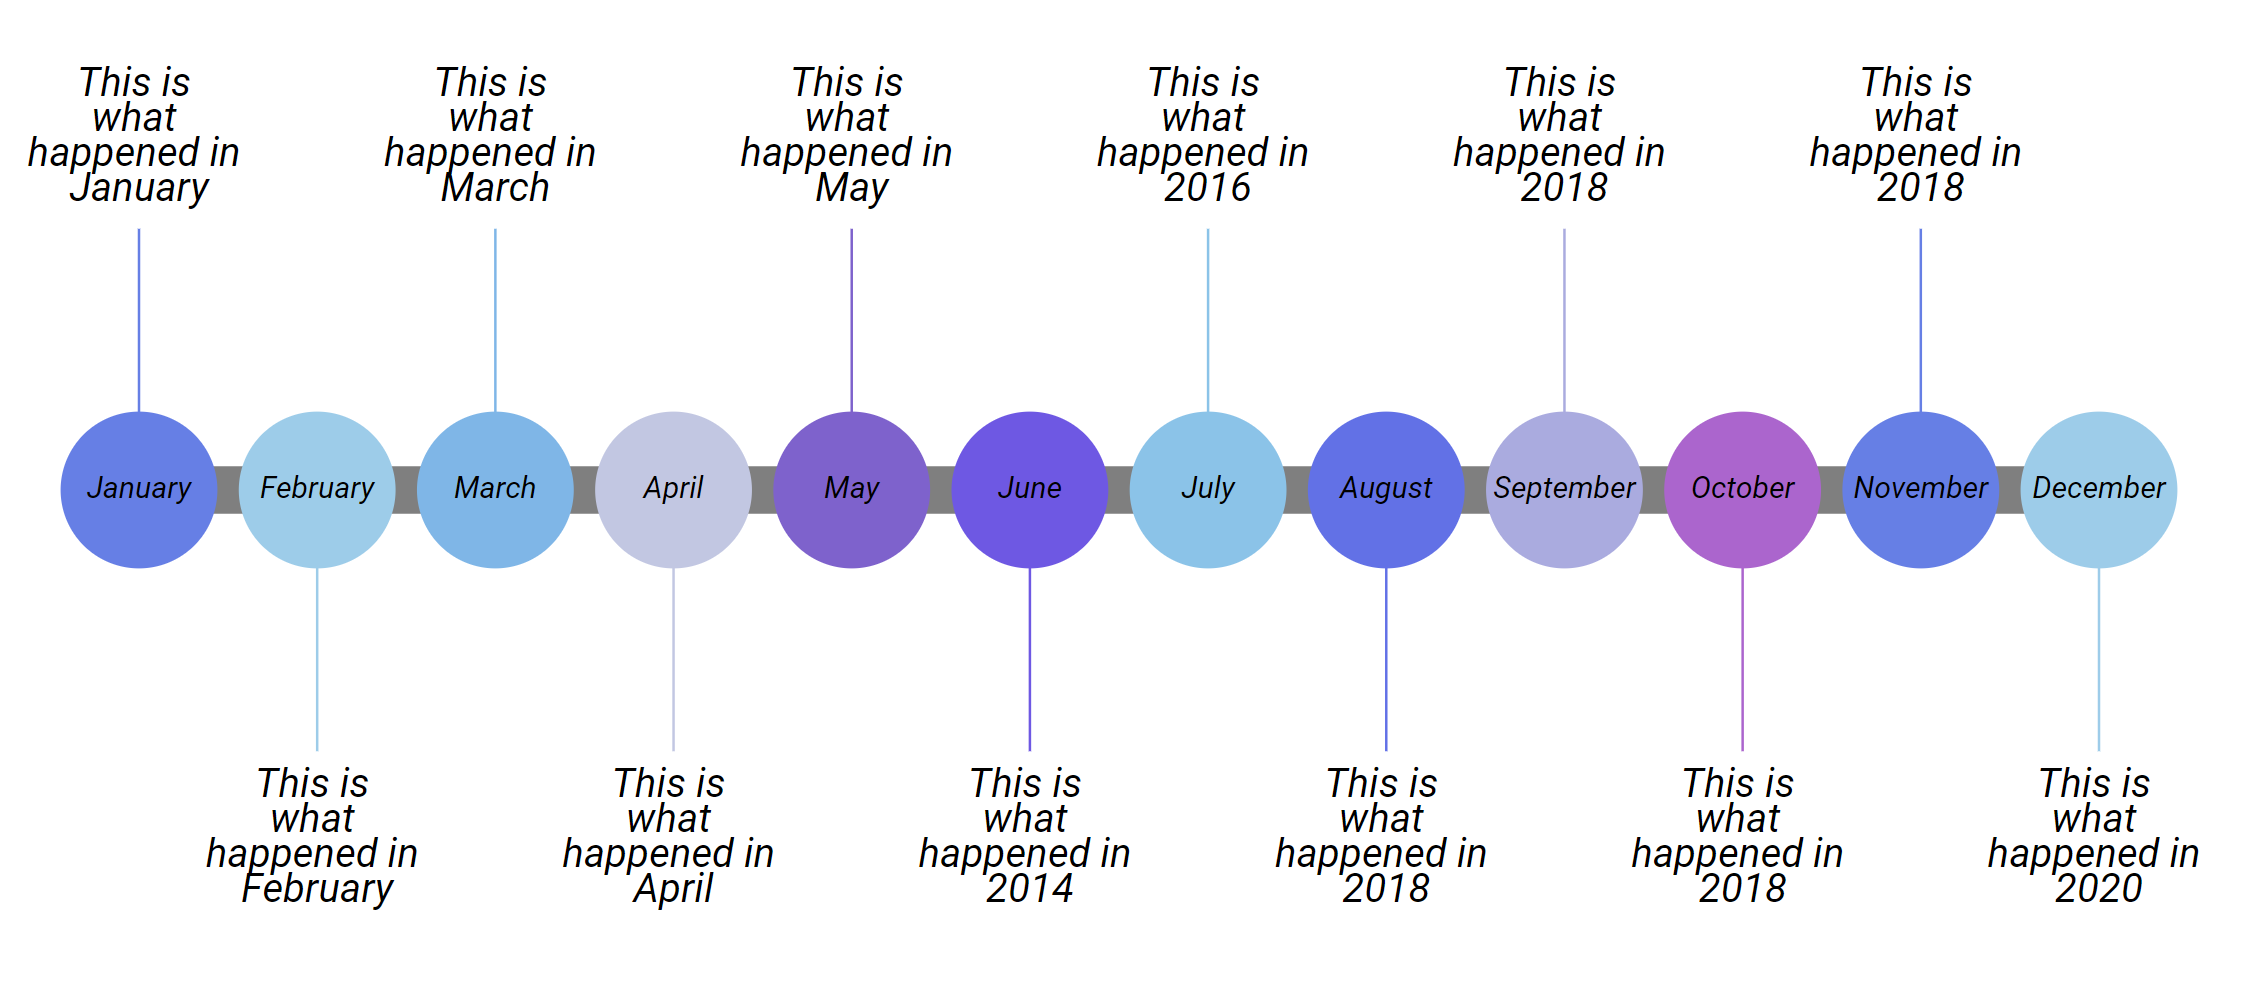
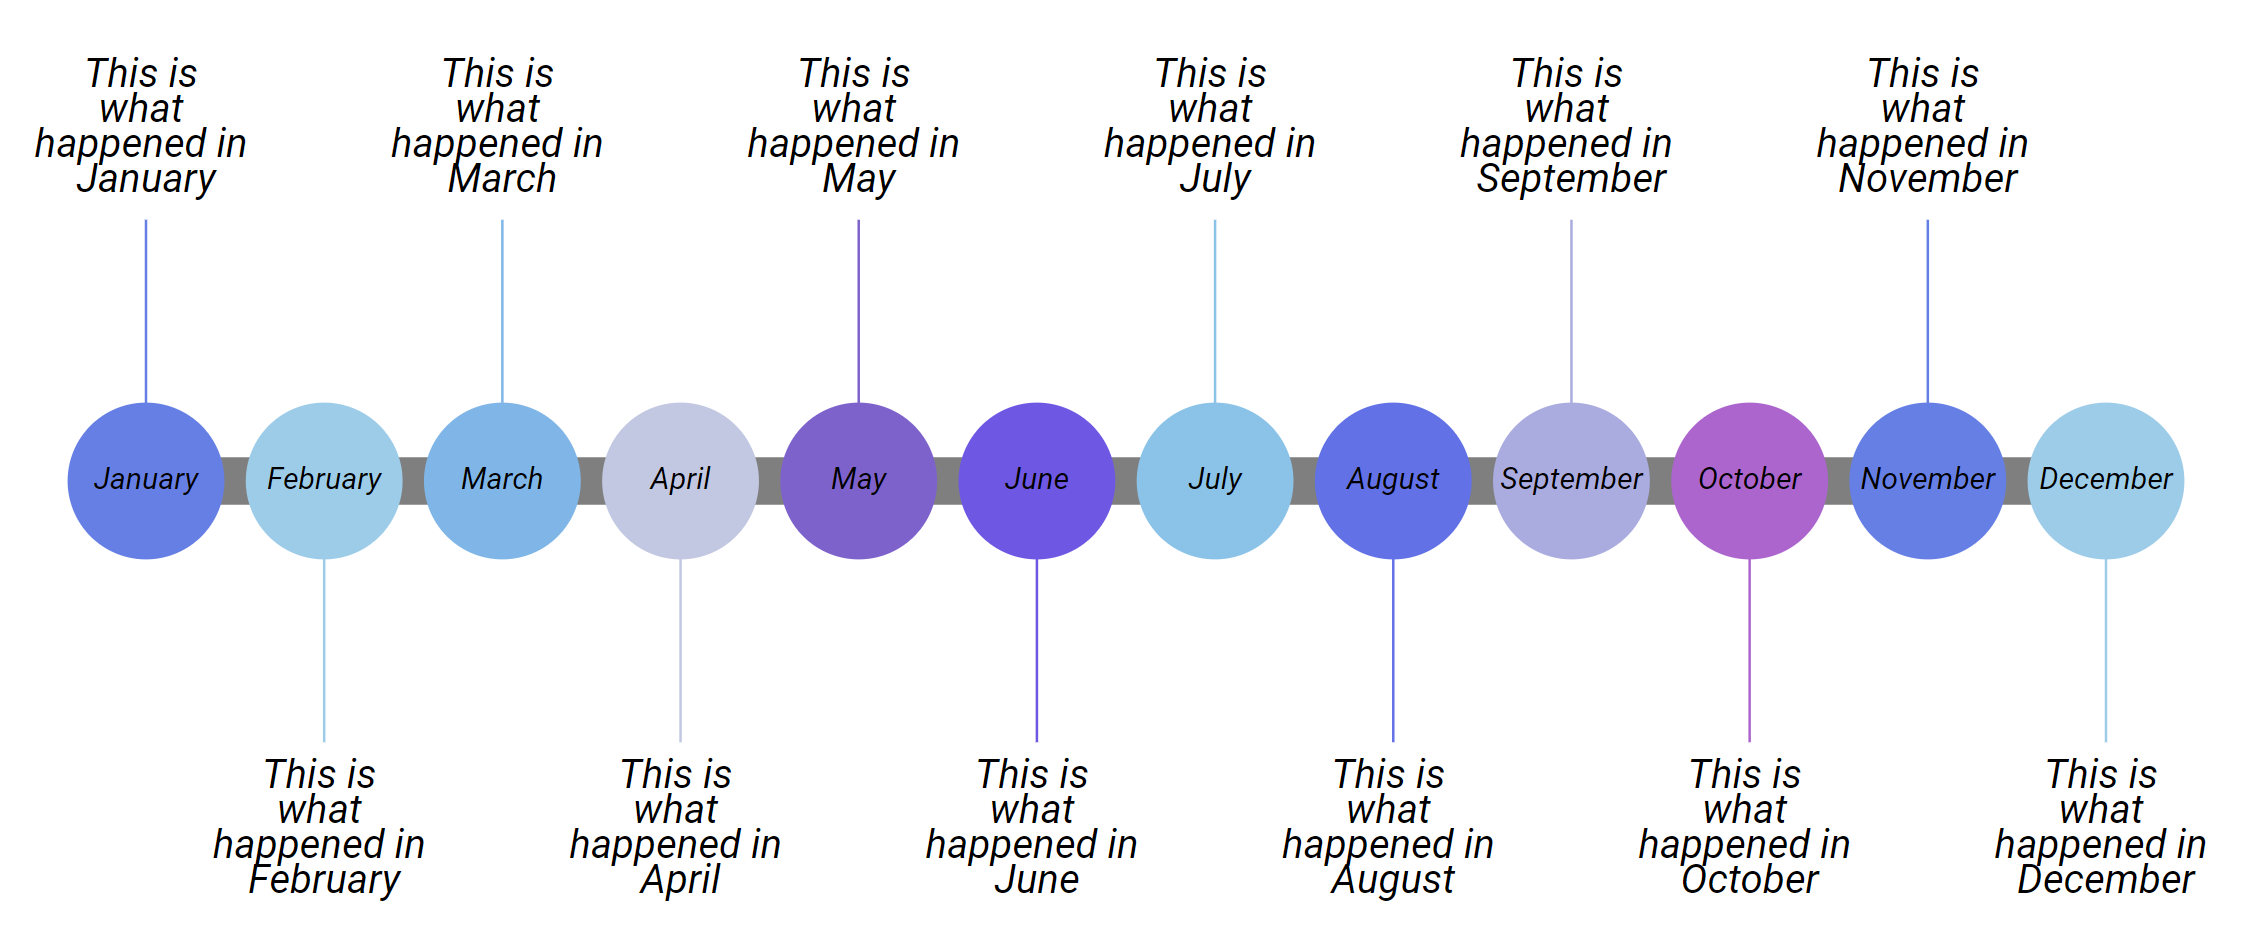
changing timelineData

diff --git a/projects/regular-app/src/app/app.component.ts b/projects/regular-app/src/app/app.component.ts
@@ -619,25 +619,25 @@ export class AppComponent {
       text: 'This is what happened in May'
     }, { time: 6,
       displayTime: 'June',
-      text: 'This is what happened in 2014'
+      text: 'This is what happened in June'
     }, { time: 7,
       displayTime: 'July',
-      text: 'This is what happened in 2016'
+      text: 'This is what happened in July'
     }, { time: 8,
       displayTime: 'August',
-      text: 'This is what happened in 2018'
+      text: 'This is what happened in August'
     }, { time: 9,
       displayTime: 'September',
-      text: 'This is what happened in 2018'
+      text: 'This is what happened in September'
     }, { time: 10,
       displayTime: 'October',
-      text: 'This is what happened in 2018'
+      text: 'This is what happened in October'
     }, { time: 11,
       displayTime: 'November',
-      text: 'This is what happened in 2018'
+      text: 'This is what happened in November'
     }, { time: 12,
       displayTime: 'December',
-      text: 'This is what happened in 2020'
+      text: 'This is what happened in December'
     }
   ];
 }

diff --git a/projects/ngx-beautiful-charts/README.md b/projects/ngx-beautiful-charts/README.md
@@ -1,6 +1,6 @@
 # NgxBeautifulCharts
 
-<img alt="ngx-beautiful-charts" src="./assets/images/pngs/ngx-beautiful-charts-logo-with-text.png" width="600">
+<img alt="ngx-beautiful-charts" src="https://raw.githubusercontent.com/snowPu/ngx-beautiful-charts/master/projects/ngx-beautiful-charts/assets/images/pngs/ngx-beautiful-charts-logo-with-text.png" width="600">
 
 <!-- ![ngx-beautiful-charts](./assets/images/pngs/ngx-beautiful-charts-logo-with-text.png) -->
 <!-- 
